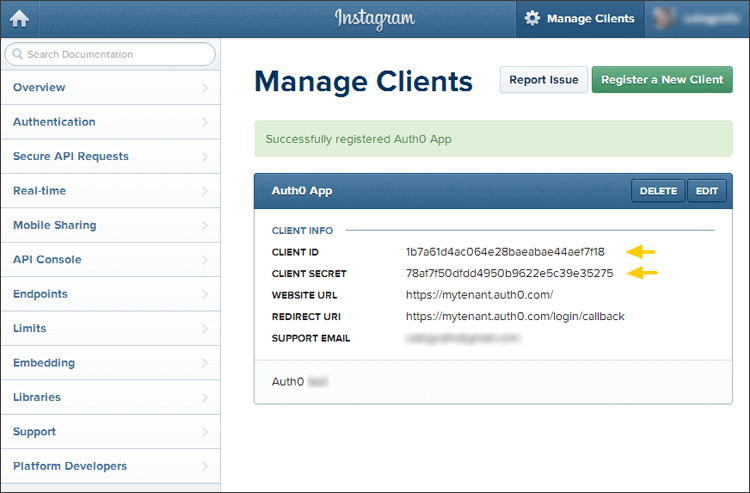
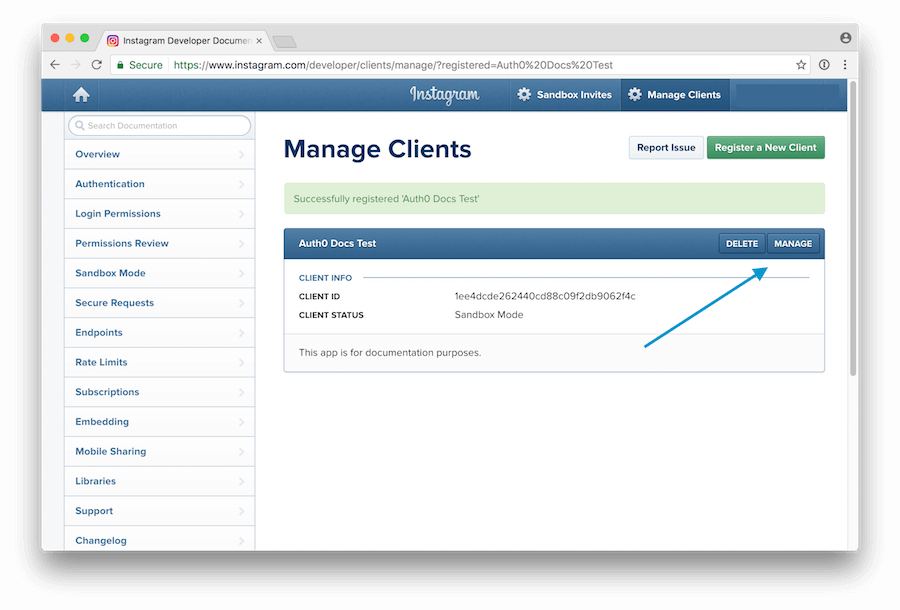
Updating Instagram social connection doc
https://trello.com/c/OXeYvXQ7/818-connect-your-app-to-instagram

diff --git a/articles/connections/social/instagram.md b/articles/connections/social/instagram.md
@@ -42,17 +42,21 @@ Click **Register**.
 
 ## 4. Get your *Client ID* and *Client Secret*
 
-Once your app is registered, your `Client Id` and `Client Secret` will be displayed:
+Once your app is registered, you will be brought to the **Manage Clients** page. Click on the **Manage** button for your new client.
 
 ![](/media/articles/connections/social/instagram/instagram-devportal-4.png)
 
+This will bring you to the page that contains your **Client ID** and **Client Secret**. Copy these for use in the next step.
+
+![](/media/articles/connections/social/instagram/instagram-devportal-4-1.png)
+
 ## 5. Copy your *Client Id* and *Client Secret* into Auth0
 
-In a separate window, login to your [Auth0 Dashboard](${manage_url}) and select **Connections > Social** in the left nav. 
+In a separate window, go to the [Connections > Social](${manage_url}/#/connections/social) section of the Auth Dashboard. 
 
 Select **Instagram**. 
 
-Copy the `Client Id` and `Client Secret` from the **Manage Clients** page of the Instagram Developer portal into the fields on this page on Auth0.
+Copy the `Client Id` and `Client Secret` from the **Manage Client** page of the Instagram Developer portal into the fields on this page on Auth0.
 
 Select the **Permissions** you want to enable.
 

diff --git a/articles/connections/social/twitter.md b/articles/connections/social/twitter.md
@@ -62,7 +62,7 @@ Unlike many social identity providers, Twitter manages profile attribute permiss
 
 ## Test your connection
 
-1. Go back to the [Connections > Social](${manage_url}/#/conncetions/social) section of the Auth0 dashboard. If you have configured your app correctly, you will see a **Try** icon next to the Twitter logo:
+1. Go back to the [Connections > Social](${manage_url}/#/connections/social) section of the Auth0 dashboard. If you have configured your app correctly, you will see a **Try** icon next to the Twitter logo:
 
     ![](/media/articles/connections/social/twitter/twitter-api-7.png)
 

diff --git a/articles/connections/social/bitbucket.md b/articles/connections/social/bitbucket.md
@@ -71,7 +71,7 @@ Go to the **Apps** tab of the Bitbucket connection on Auth0 and select each of y
 
 ## 6. Test the connection
 
-Close the **Settings** window to return to the [Connections > Social](${manage_url}/#/conncetions/social) section of the Auth0 dashboard.
+Close the **Settings** window to return to the [Connections > Social](${manage_url}/#/connections/social) section of the Auth0 dashboard.
 
 A **TRY** icon will now be displayed next to the Bitbucket logo:
 

diff --git a/articles/connections/social/dropbox.md b/articles/connections/social/dropbox.md
@@ -68,7 +68,7 @@ Select the **Apps** tab of the Dropbox connection on Auth0 and select each of yo
 
 ## 7 Test the connection
 
-Close the **Settings** window to return to the [Connections > Social](${manage_url}/#/conncetions/social) section of the Auth0 dashboard.
+Close the **Settings** window to return to the [Connections > Social](${manage_url}/#/connections/social) section of the Auth0 dashboard.
 
 A **TRY** icon will now be displayed next to the Dropbox logo:
 

diff --git a/articles/connections/social/linkedin.md b/articles/connections/social/linkedin.md
@@ -68,7 +68,7 @@ Go to the **Apps** tab of the LinkedIn connection on Auth0 and select each of yo
 
 ## 8. Test your app
 
-Go back to the [Connections > Social](${manage_url}/#/conncetions/social) section of the Auth0 dashboard.
+Go back to the [Connections > Social](${manage_url}/#/connections/social) section of the Auth0 dashboard.
 
 A **TRY** icon will now be displayed next to the LinkedIn logo:
 

diff --git a/articles/connections/social/google.md b/articles/connections/social/google.md
@@ -107,7 +107,7 @@ Click **Save**.
 
 ## 9. Test your connection
 
-Go back to the [Connections > Social](${manage_url}/#/conncetions/social) section of the Auth0 dashboard.
+Go back to the [Connections > Social](${manage_url}/#/connections/social) section of the Auth0 dashboard.
 
 If you have configured your connection correctly, you will see a **Try** icon next to the Google logo:
 
